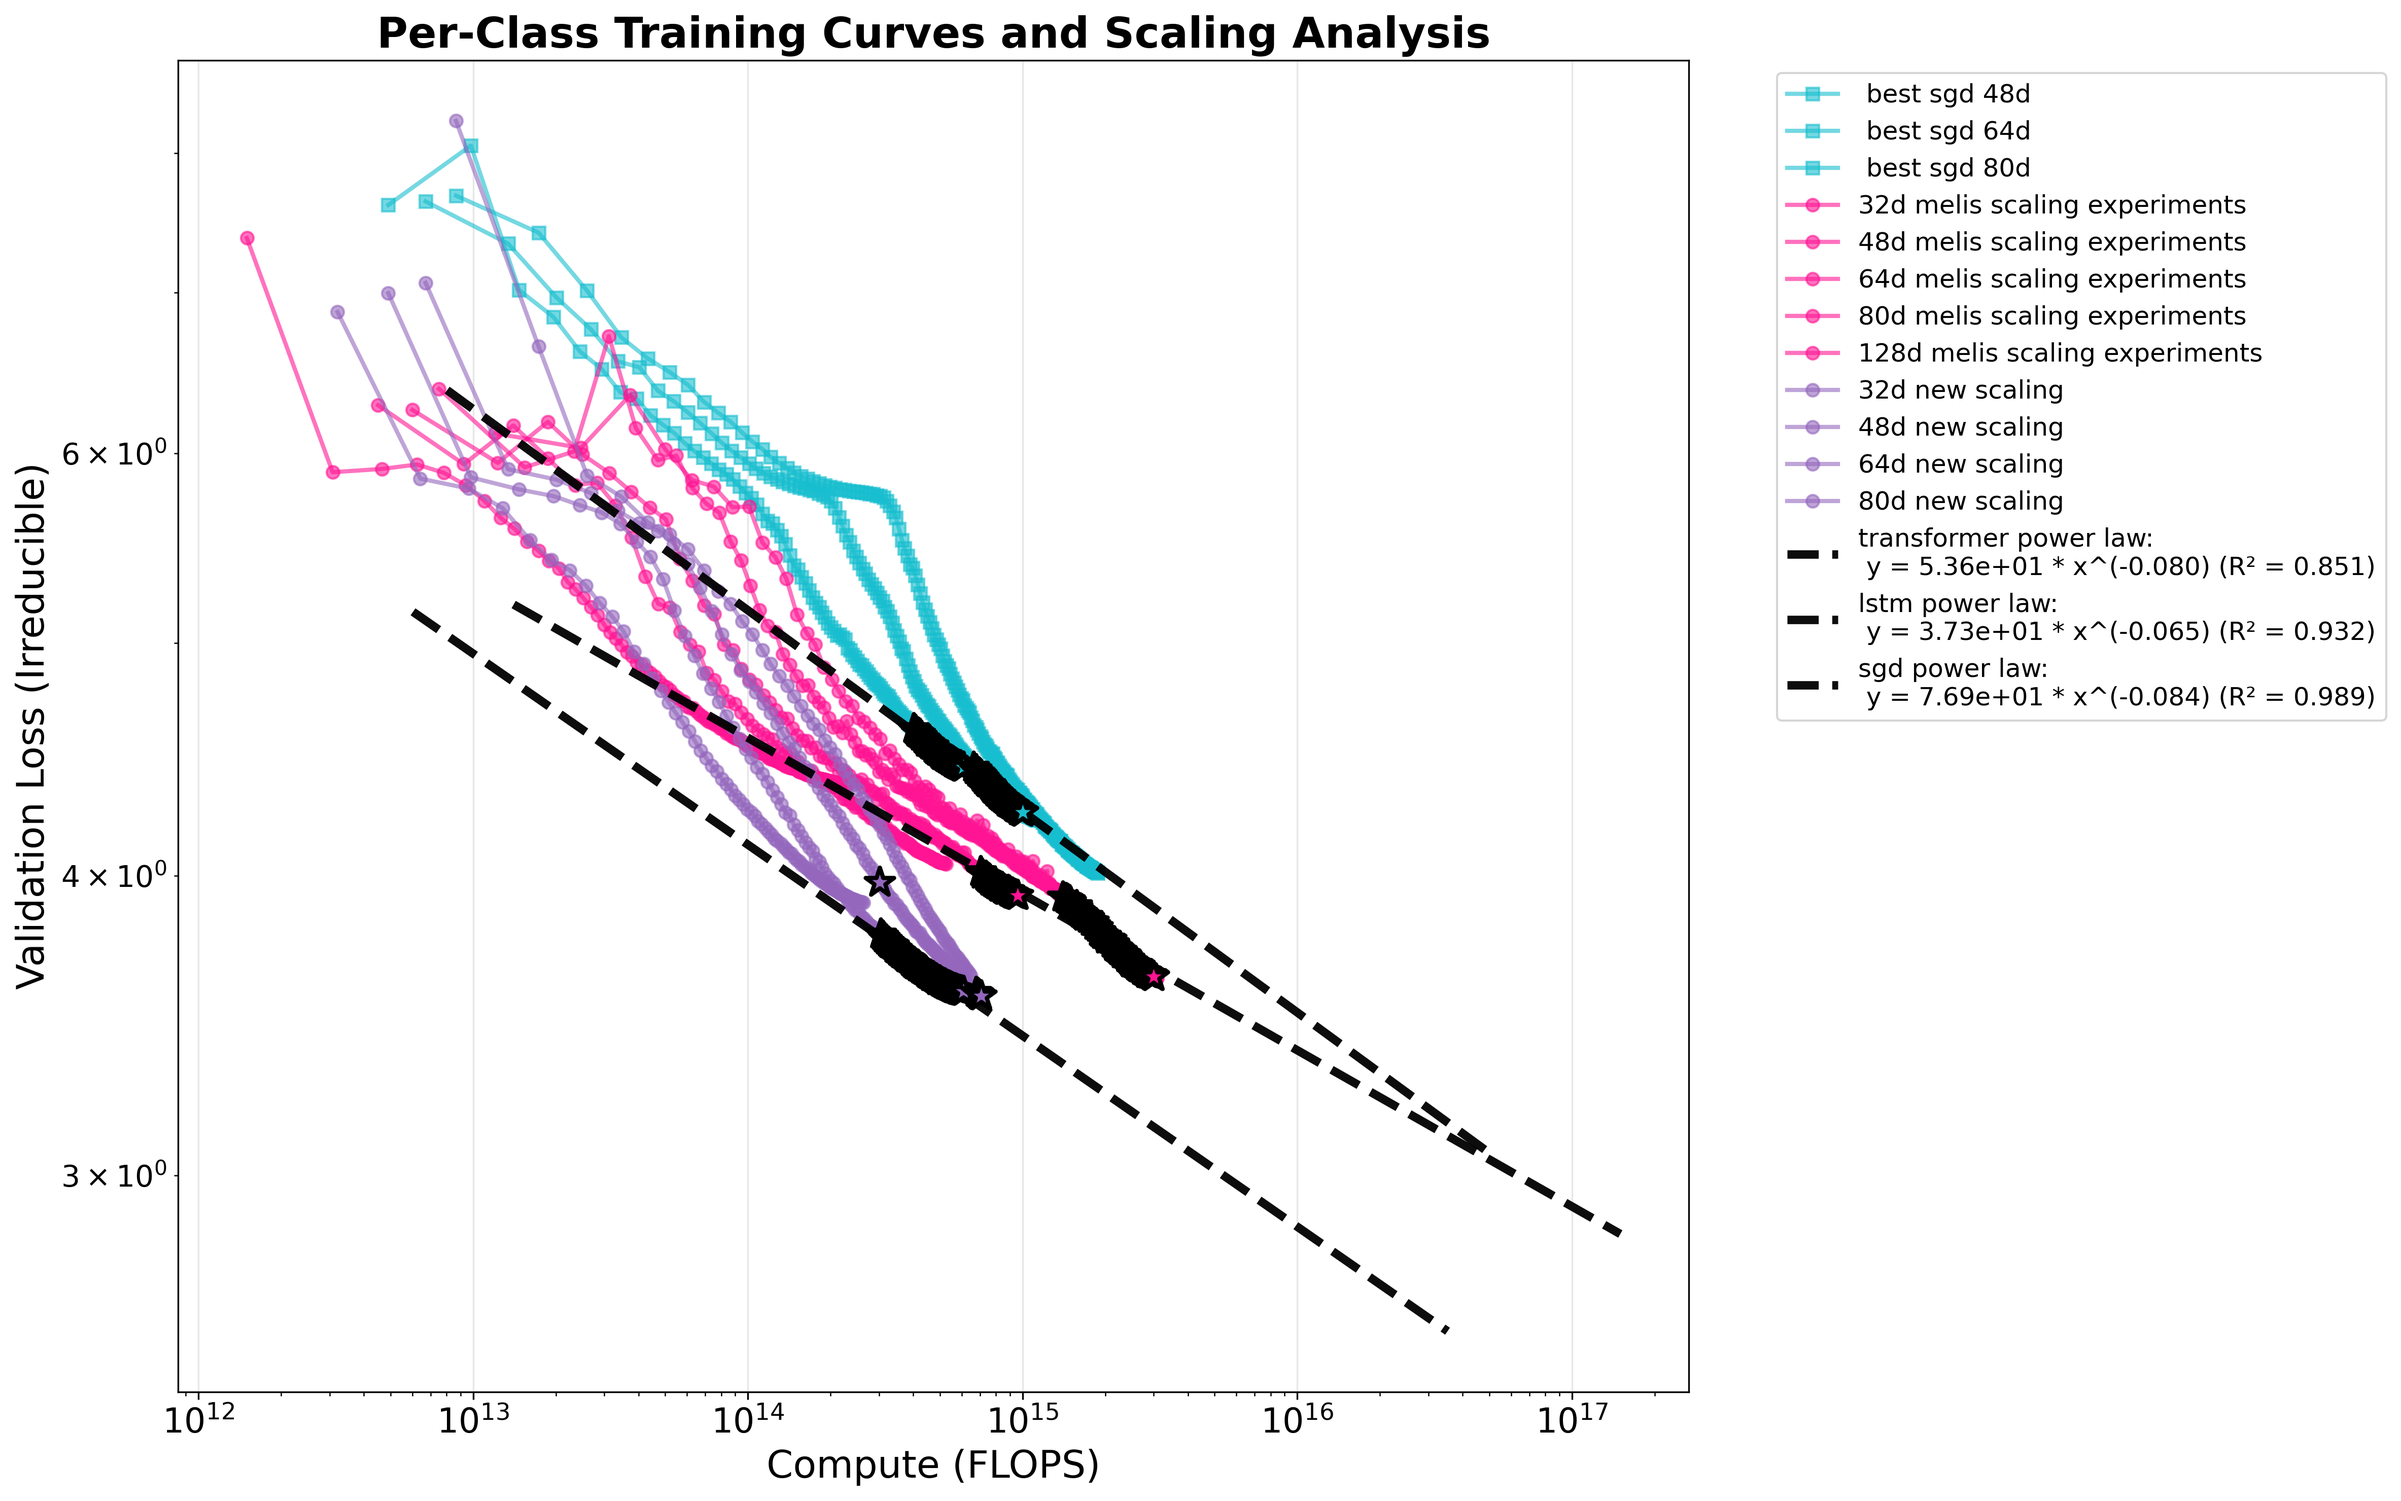
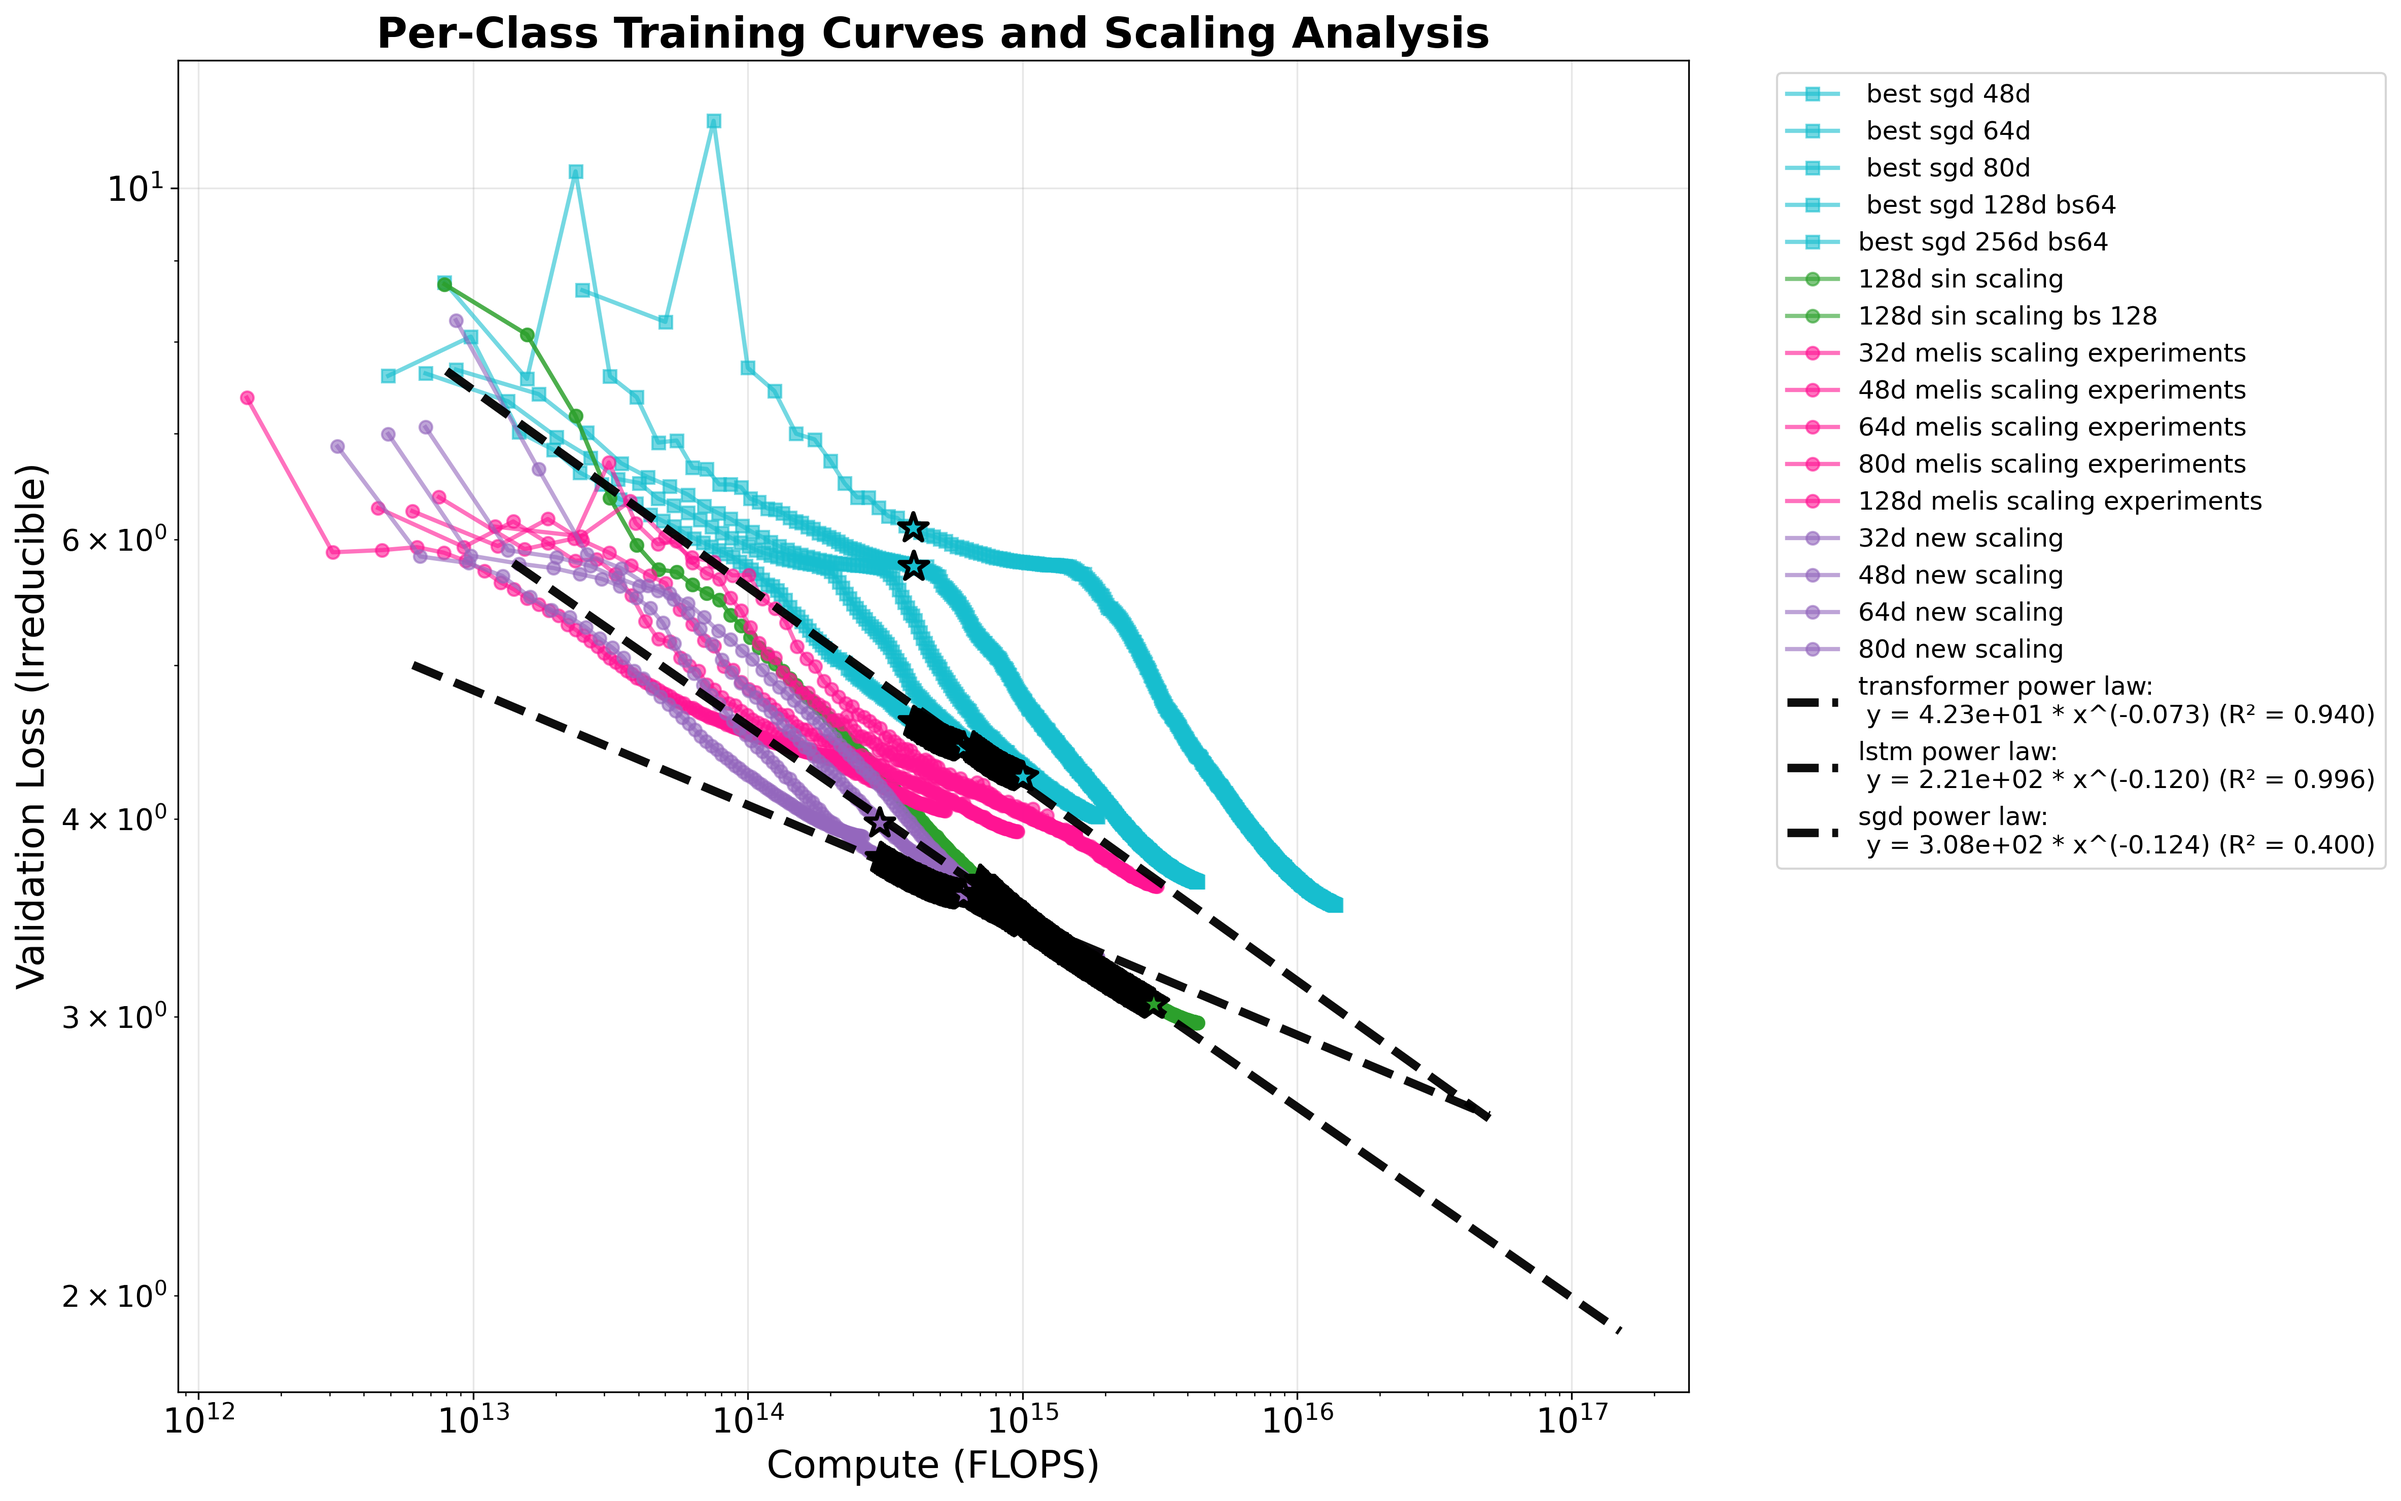
removed ddp support from lstm_expeirments utils hope this doesn't break things

diff --git a/experimental_analysis/no_color_scale_extensive.py b/experimental_analysis/no_color_scale_extensive.py
@@ -1184,6 +1184,52 @@ if __name__ == "__main__":
             "class": "sgd",
             "hidden_dim": 80,
         },
+        #best sgd 128 and 256
+        {
+            "name": " best sgd 128d bs64",
+            "csv_path": "../experimental_data_folder/best_possible_sgd/128d_best_sgdbs64.csv",
+            "marker": "s",
+            "color": "tab:cyan",
+            "include_in_in_frontier": False,  # Include in frontier analysis
+            "class": "sgd",
+            "hidden_dim": 128,
+        },
+        #256d best sgd bs128
+        {
+            "name": "best sgd 256d bs64",
+            "csv_path": "../experimental_data_folder/best_possible_sgd/256d_best_sgdbs64.csv",
+            "marker": "s",
+            "color": "tab:cyan",
+            "include_in_in_frontier": False,  # Include in frontier analysis
+            "class": "sgd",
+            "hidden_dim": 256,
+        },
+
+        #sinscaling     
+
+        #128d sin scaling
+        {
+            "name": "128d sin scaling",
+            "csv_path": "../experimental_data_folder/sin_scaling/128d_sinbs128.csv",
+            "marker": "o",
+            "color": "tab:green",
+            "include_in_in_frontier": False,  # Include in frontier analysis
+            "class": "lstm",
+            "hidden_dim": 128,
+        },
+        #256d sin scaling
+        {
+            "name": "128d sin scaling bs 128",
+            "csv_path": "../experimental_data_folder/sin_scaling/128d_sinbs128.csv",
+            "marker": "o",
+            "color": "tab:green",
+            "include_in_in_frontier": False,  # Include in frontier analysis
+            "class": "lstm",
+            "hidden_dim": 256,
+        },
+        
+
+        
         
         # melis scaling
         # {
@@ -1339,7 +1385,45 @@ if __name__ == "__main__":
             "class": "transformer",
             "hidden_dim": 80,
         },
+
+        #lstm sgd
+         {
+            "name": "48d melis sgd",
+            "csv_path": "../experimental_data_folder/lstm_sgd/48melis_steam_sgd.csv",
+            "marker": "o",
+            "include_in_frontier": False,  # Include in frontier analysis
+            "class": "lstm_sgd",
+            "color": "tab:orange",
+            "hidden_dim": 48,
+        },
+        # 64melis scaling
+        {
+            "name": "64d melis sgd",
+            "csv_path": "../experimental_data_folder/lstm_sgd/64melis_steam_sgd.csv",
+            "marker": "o",
+            "include_in_frontier": False,  # Include in frontier analysis
+            "class": "lstm_sgd",
+            "color": "tab:orange",
+            "hidden_dim": 64,
+        },
+        # 128 melis scaling
+        {
+            "name": "128d melis sgd",
+            "csv_path": "../experimental_data_folder/lstm_sgd/128melis_stream_sgd.csv",
+            "marker": "o",
+            "include_in_frontier": False,  # Include in frontier analysis
+            "class": "lstm_sgd",
+            "color": "tab:orange",
+            "hidden_dim": 128,
+        },
+
+
+
     
+
+
+
+
 
 
         # new scaling no rotary
